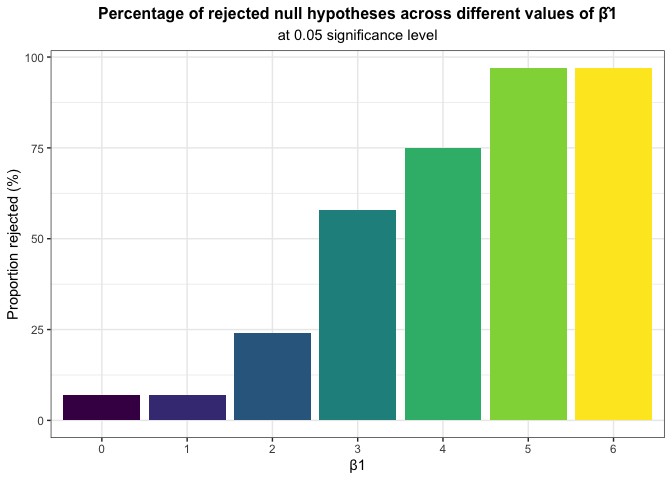
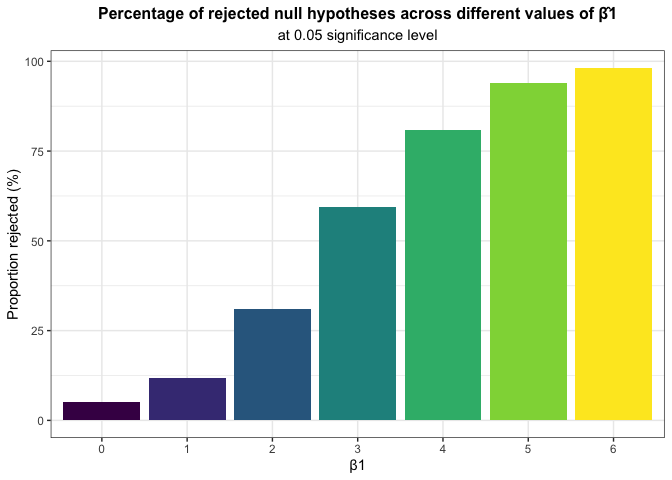
problem 3 -- last question with answer

diff --git a/hw5.md b/hw5.md
@@ -176,15 +176,15 @@ sim_regression = function(n = 30, beta0 = 2, beta1) { #make function for with se
 
 ``` r
 sim_results = 
-  tibble(beta1 = c(0, 1, 2, 3, 4, 5, 6)) %>%            #start with a 6x1 tibble with true set b1 values 
+  tibble(beta1 = c(0, 1, 2, 3, 4, 5, 6)) %>%        #start with a 6x1 tibble with true set b1 values 
   mutate(
-    output_lists = map(.x = beta1,                      #set values to iterate over as b1
-                       ~rerun(100,                   #rerun a demo of 100 estimates per b1
+    output_lists = map(.x = beta1,                  #set values to iterate over as b1
+                       ~rerun(10000,                #rerun a demo of 100 estimates per b1
                               sim_regression(beta1 = .x))), #mass apply using function sim_regression defined above
-    estimate_dfs = map(output_lists,                 #mass apply bind_rows to output_lists
+    estimate_dfs = map(output_lists,                #mass apply bind_rows to output_lists
                        bind_rows)) %>%         
-  select(-output_lists) %>%                          #deselect output_lists
-  unnest(estimate_dfs)                               #unnest list estimate_dfs to get tibble
+  select(-output_lists) %>%                         #deselect output_lists
+  unnest(estimate_dfs)                              #unnest list estimate_dfs to get tibble
 ```
 
 Find the proportion of null hypotheses that are rejected under
@@ -194,7 +194,7 @@ significance level 0.05 (estimate different from 0):
 sim_results %>% 
   filter(p.value < 0.05) %>%              #filter out only p-values less than 0.05 
   group_by(beta1) %>%                     #group by true parameter
-  summarize(pct_rej = 100*n()/100)%>%     #create variable pct
+  summarize(pct_rej = 100*n()/10000)%>%   #create variable pct
   ggplot(aes(x = factor(beta1),           #set variables for x, y axes and by group (beta1)
              y = pct_rej, 
              fill = beta1)) + 
@@ -257,9 +257,6 @@ sim_results_df %>%
 ```
 
 ![](hw5_files/figure-gfm/unnamed-chunk-11-1.png)<!-- -->
-
-Is the sample average of β̂ 1 across tests for which the null is
-rejected approximately equal to the true value of β1? Why or why not?
 
 We can see the averages of slope estimates β̂1 (across all tests) are
 close to the true parameter β1. The sample average of β̂1 across tests
